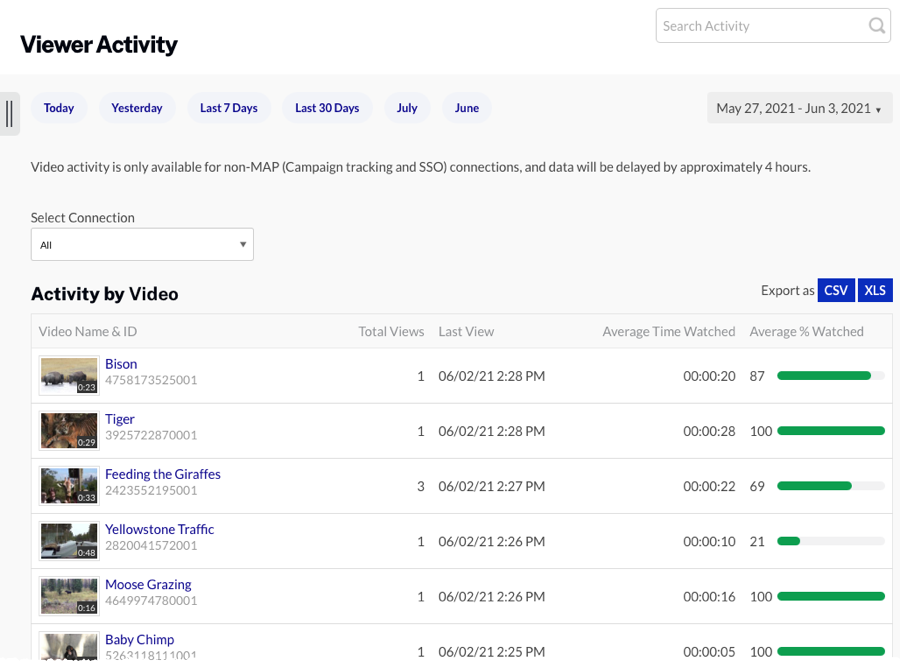
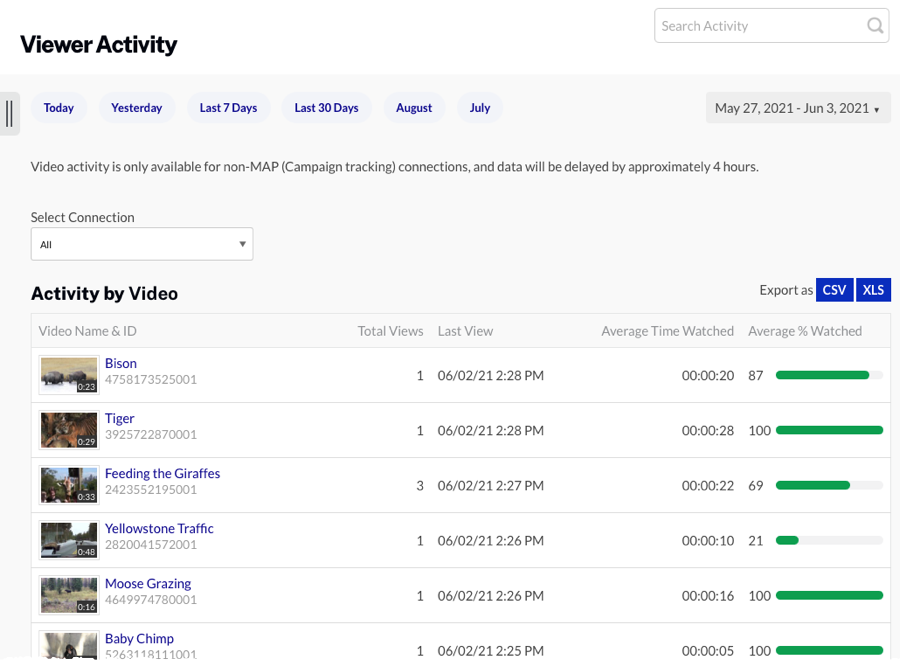
updates

diff --git a/_site/campaign/general/viewing-video-activity.html b/_site/campaign/general/viewing-video-activity.html
@@ -1205,8 +1205,8 @@ function doGTranslate(lang_pair) {if(lang_pair.value)lang_pair=lang_pair.value;i
   <h1>Viewing Video Activity</h1>
   <summary>In this topic you will learn how to view video activity in the Campaign module.</summary>
   <section class="bcls-section">
-    <p>When using Campaign Tracking or SSO integrations, the Campaign module allows you to select a video and then view activity for that video. This allows you to see who viewed a particular video.</p>
-    <p>All video views in Campaign-enabled players will be tracked. To view the video activity, click<strong> Video (non-MAP)</strong> in the left navigation. The Viewing Activity page will display a list of all viewed videos from SSO and Campaign tracking integrations for the selected time period. The <strong>Select Connection</strong> control can be used to select a specific connection. The calendar control can be used to select a new date range. Data can be sorted by clicking on the column headers.</p>
+    <p>When using Campaign Tracking integrations, the Campaign module allows you to select a video and then view activity for that video. This allows you to see who viewed a particular video.</p>
+    <p>All video views in Campaign-enabled players will be tracked. To view the video activity, click<strong> Video (non-MAP)</strong> in the left navigation. The Viewing Activity page will display a list of all viewed videos from Campaign tracking integrations for the selected time period. The <strong>Select Connection</strong> control can be used to select a specific connection. The calendar control can be used to select a new date range. Data can be sorted by clicking on the column headers.</p>
     <aside class="bcls-aside bcls-aside--information">Notes:
       <ul>
         <li>There will be a few hour delay before the viewing data will appear.</li>

diff --git a/campaign/general/viewing-video-activity.html b/campaign/general/viewing-video-activity.html
@@ -7,8 +7,8 @@ parent: General Information
   <h1>{{ page.title }}</h1>
   <summary>{{ page.description }}</summary>
   <section class="bcls-section">
-    <p>When using Campaign Tracking or SSO integrations, the Campaign module allows you to select a video and then view activity for that video. This allows you to see who viewed a particular video.</p>
-    <p>All video views in Campaign-enabled players will be tracked. To view the video activity, click<strong> Video (non-MAP)</strong> in the left navigation. The Viewing Activity page will display a list of all viewed videos from SSO and Campaign tracking integrations for the selected time period. The <strong>Select Connection</strong> control can be used to select a specific connection. The calendar control can be used to select a new date range. Data can be sorted by clicking on the column headers.</p>
+    <p>When using Campaign Tracking integrations, the Campaign module allows you to select a video and then view activity for that video. This allows you to see who viewed a particular video.</p>
+    <p>All video views in Campaign-enabled players will be tracked. To view the video activity, click<strong> Video (non-MAP)</strong> in the left navigation. The Viewing Activity page will display a list of all viewed videos from Campaign tracking integrations for the selected time period. The <strong>Select Connection</strong> control can be used to select a specific connection. The calendar control can be used to select a new date range. Data can be sorted by clicking on the column headers.</p>
     <aside class="bcls-aside bcls-aside--information">Notes:
       <ul>
         <li>There will be a few hour delay before the viewing data will appear.</li>

diff --git a/_site/media/working-multi-lingual-metadata.html b/_site/media/working-multi-lingual-metadata.html
@@ -1252,7 +1252,7 @@ function doGTranslate(lang_pair) {if(lang_pair.value)lang_pair=lang_pair.value;i
 
 <hr>
 <div class="last-updated">
-  Page last updated on 17 Aug 2021
+  Page last updated on 20 Aug 2021
 </div>
 
 
